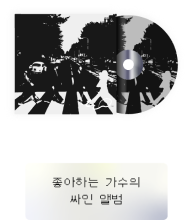
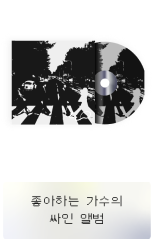
Change button image

diff --git a/index.js b/index.js
@@ -29,14 +29,15 @@ const onLoadHandler = ()=>{
 }
 
 const gridStyle = () =>{
-    let box = document.getElementsByClassName("button-box")[0]
+    const box = document.getElementsByClassName("button-box")[0]
    
-    box.style.top ="30%"
+    box.style.top ="25%"
 
     const ul = box.getElementsByTagName('ul')[0]
     ul.style.display ="grid"
     ul.style.gridTemplateColumns = "1fr 1fr"
     ul.style.gridTemplateRows = "1fr 1fr"
+    ul.style.textAlign ="center"
 
     const img = ul.getElementsByTagName('img')
 
@@ -61,12 +62,23 @@ const clearGridStyle = ()=>{
 }
 
 const showResultImage = ()=>{
+    const urls = {
+        type1 : 'https://youtu.be/4P1IPRRGd1k',
+        type2 : 'https://youtu.be/fZ_kO8nyGMs',
+        type3 : 'https://youtu.be/s3yDnr94uPY',
+        type4 : 'https://youtu.be/etrzdTGOJWU'
+    }  
+
     const [key,] = Object.entries(score)
     .sort(([,a],[,b]) => a-b)[3]
 
     document.getElementById("background-image").src = `./images/${key}.png`
-    let box = document.getElementsByClassName("button-box")[0]
+    const box = document.getElementsByClassName("button-box")[0]
     box.style.display= "none"
+
+    const goToUtopia = document.getElementById('go-to-utopia')
+    goToUtopia.style.display = "block"
+    goToUtopia.setAttribute('href', urls[key])
 }
 
 const handleClickTypeButton = (type)=>{
@@ -77,7 +89,6 @@ const handleClickTypeButton = (type)=>{
     const nextQuestionIndex = image.getAttribute('value')*1+1
 
     if(nextQuestionIndex === 9){
-        //결과 페이지로 이동 
         showResultImage()
         return
     }

diff --git a/index.css b/index.css
@@ -11,13 +11,13 @@
 }
 
 
-.content img{
+.content > img{
     height: 100vh;
     width: 100%;
 }
 
 .content .button-box {
-    width: 90%;
+    width: 75%;
     position: absolute;
     color : white;
     top : 50%;
@@ -39,4 +39,17 @@
     height: auto;
 }   
 
+#go-to-utopia{
+    display: none;
+    position: absolute;
+    width : 40%;
+    height: auto;
+    bottom : 8%;
+    left: 50%;
+    transform: translate(-50%);
+}
+#go-to-utopia img{
+    width: 100%;
+    height: auto;
+}
 

diff --git a/questions.html b/questions.html
@@ -55,6 +55,10 @@
                         </li>
                     </ul>
                 </div>
+
+                <a id="go-to-utopia" href="">
+                    <img src="./images/goToUtopiabutton.png">
+                </a>
             </div> 
         </div>
     </body>
